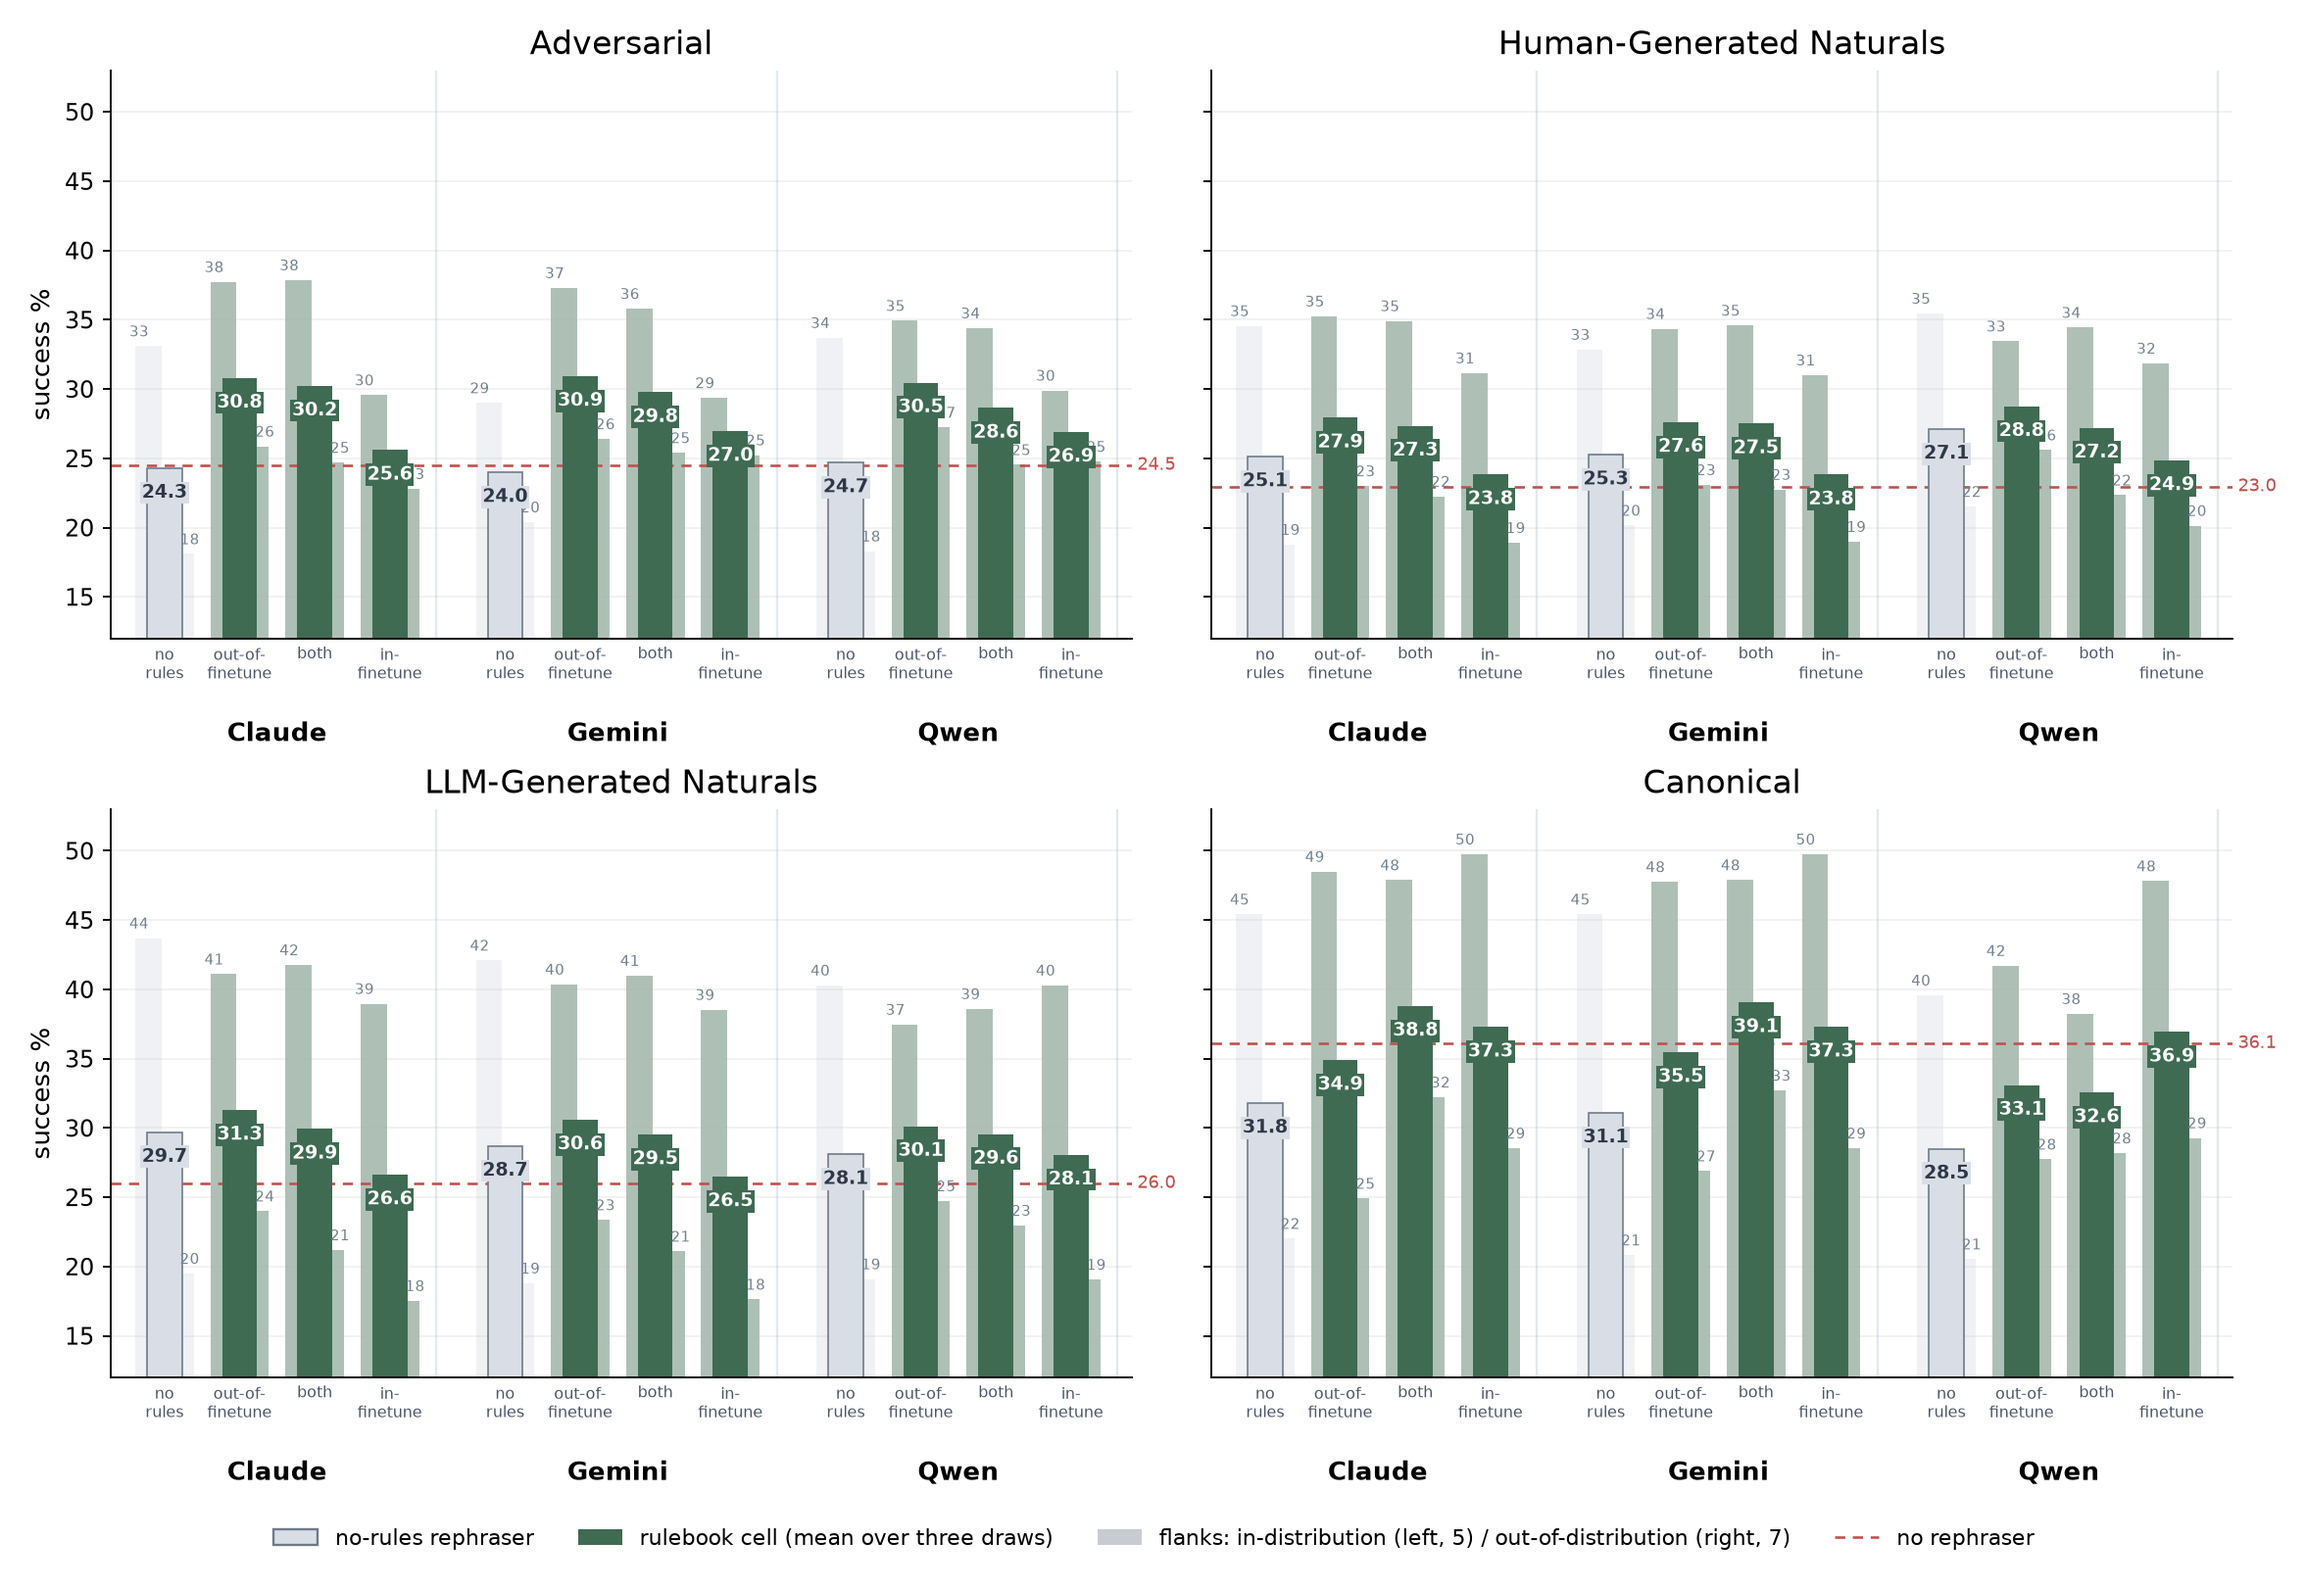
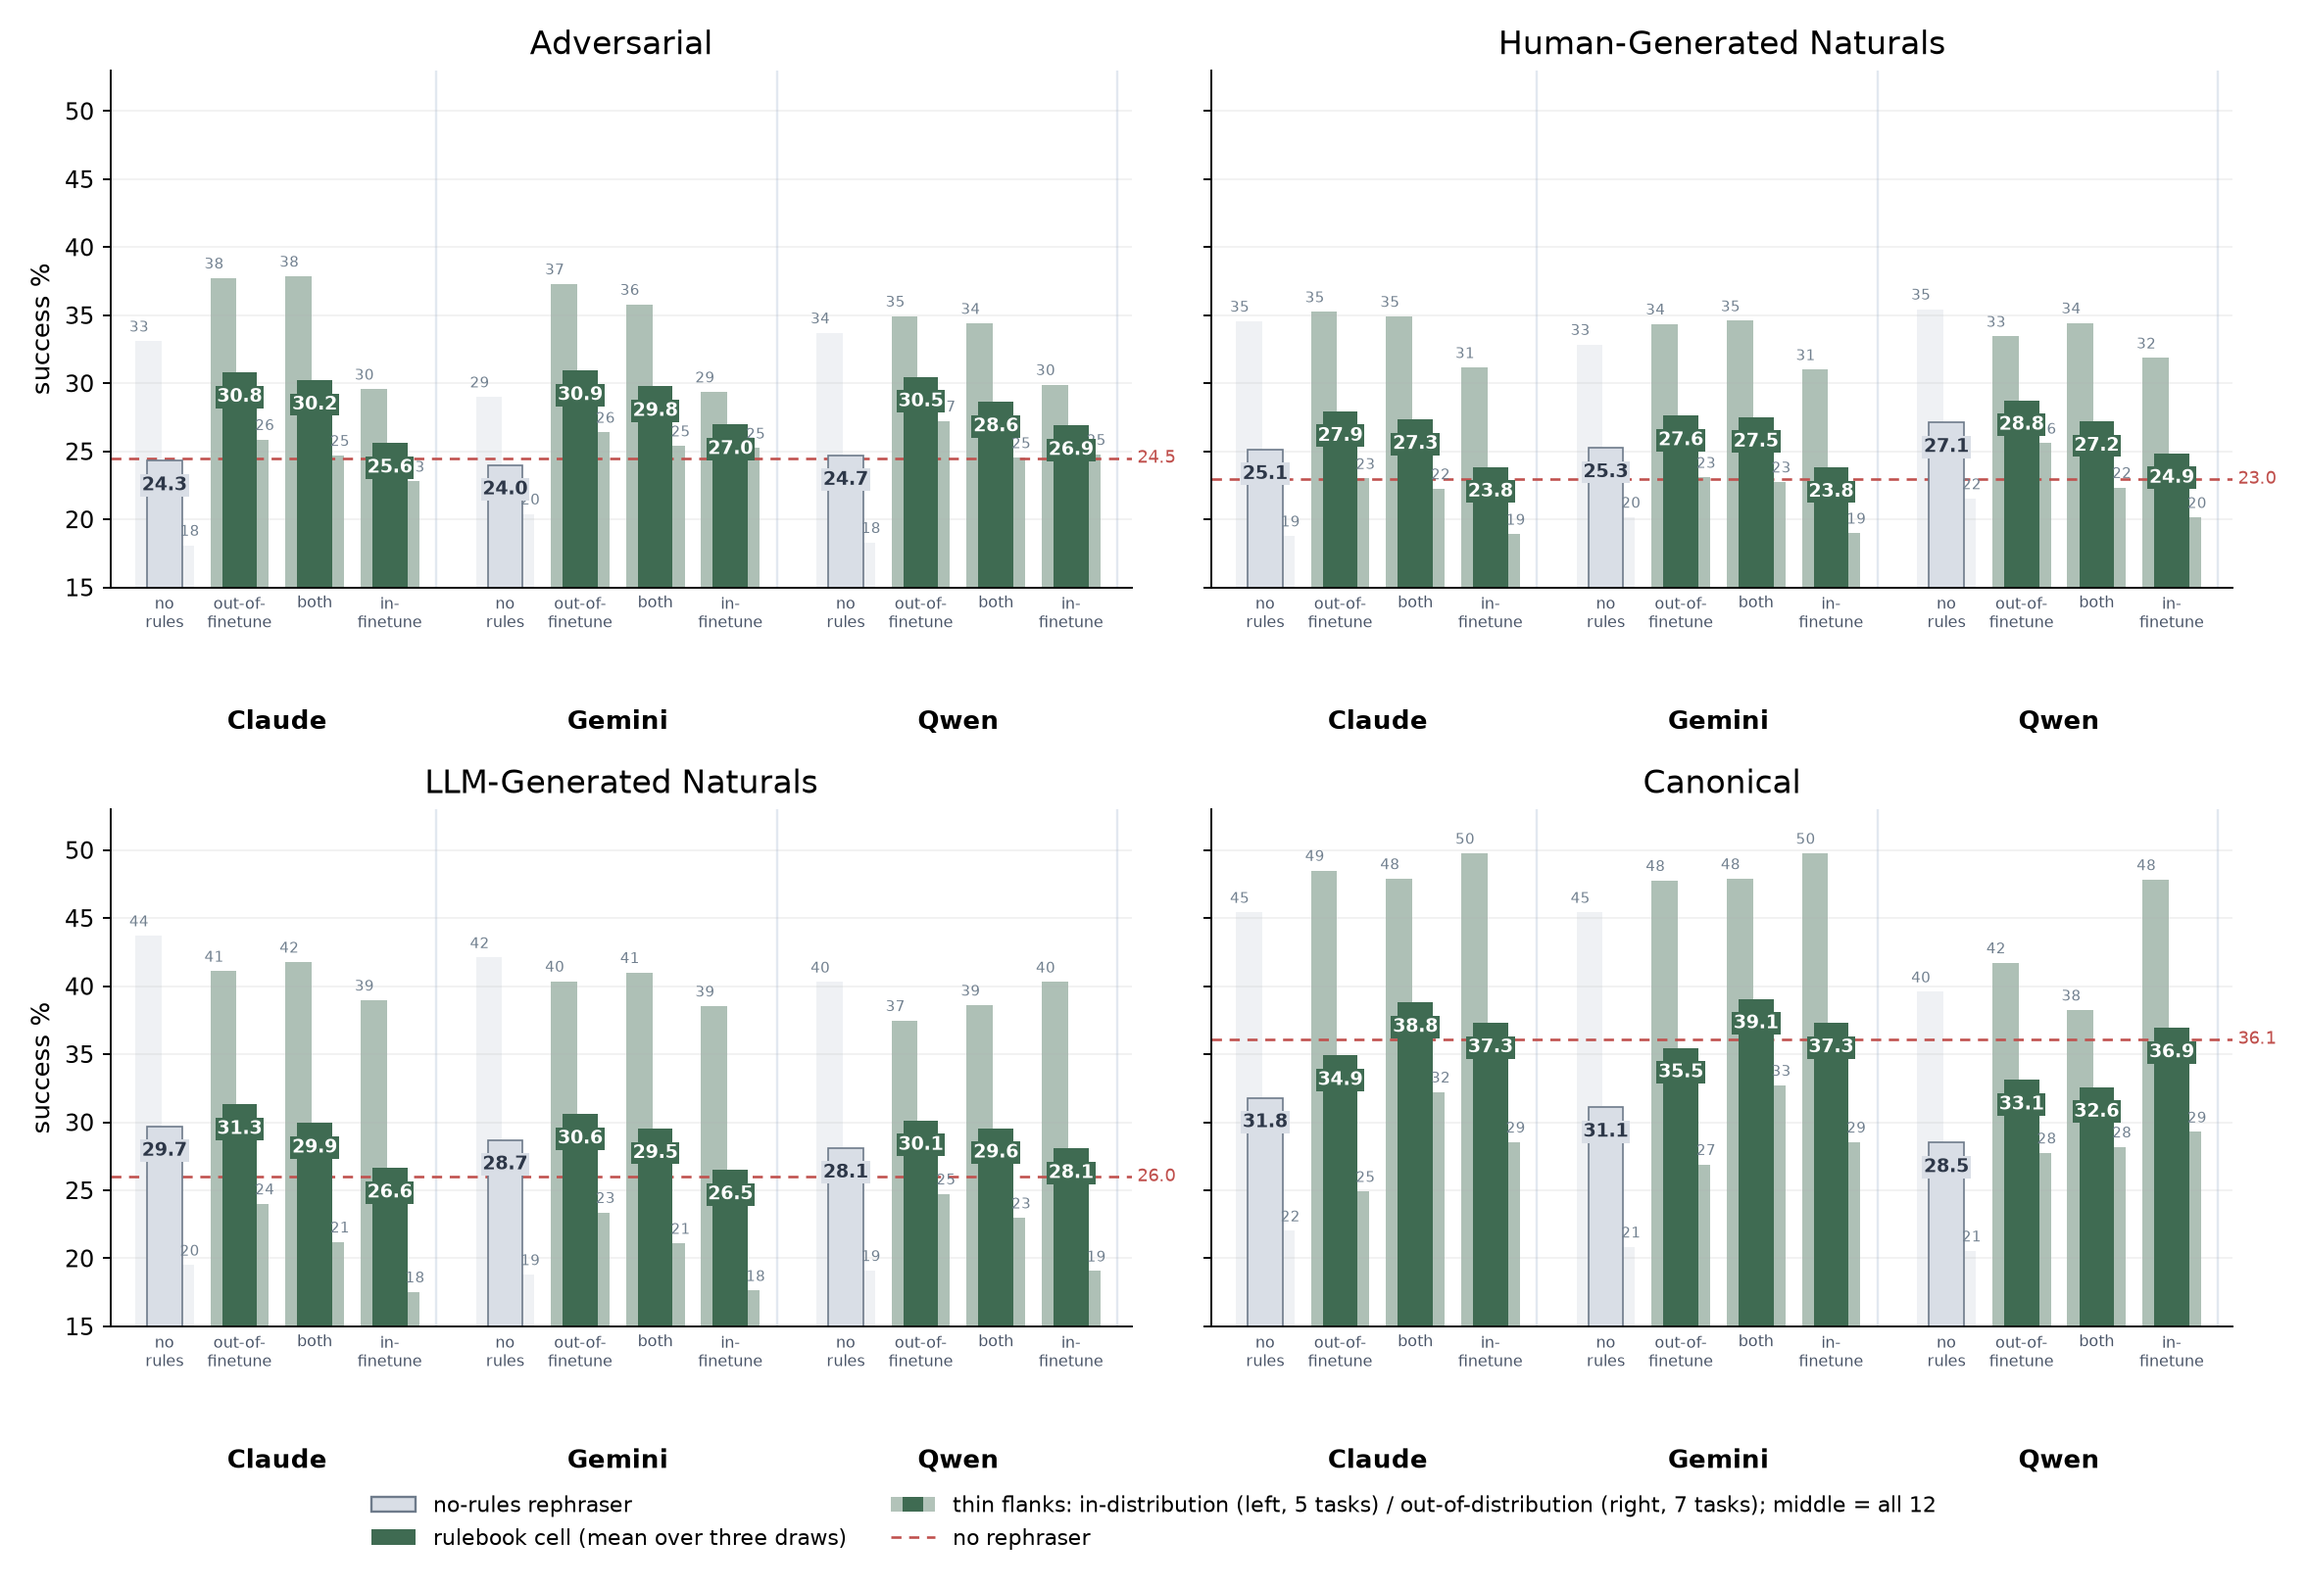
Dashboard v2 + LIBERO three-draw update

diff --git a/paper/main.tex b/paper/main.tex
@@ -487,7 +487,7 @@ The out-of-finetune rulebook is consistently the best type; the one exception is
 \subsection{Replication on $\pi_{0.5}$ + LIBERO}
 \label{sec:libero-repl}
 
-We repeated the pipeline on $\pi_{0.5}$: a preregistered sealed set of 20 tasks (10 in-finetune, 10 out-of-finetune), 10 VLM-generated natural rephrasings per task, evidence from the non-sealed single-edit pairs only, and the Gemini applier ($n = 200$ bases $\times$ 50 layouts per arm). Two independently distilled books lift in-finetune success from 93.6\% to 97.8\% on average ($p \approx 0.005$) and leave out-of-finetune unchanged ($p > 0.6$); the no-rules rephraser gains nothing in-finetune but 1.6 points out-of-finetune ($p = 0.006$). The books' gains are the repairs the evidence licenses: hot plate, hotplate, or burner $\to$ stove ($+43$ to $+48$\,pp on the eight or nine phrases that used them), dish $\to$ plate ($+37$ in the draw that rewrote it), and, smaller but broad, grab or lift $\to$ pick up ($+2.2$ and $+2.6$ over 14--16 phrases) and onto $\to$ on, into $\to$ in (${\sim}+2$ over ${\sim}50$ phrases). A distillation prompt that required each rule to hold across all tasks produced a book of prohibitions that changed little and gained nothing; asking for rules that help on average produced the books above.
+We repeated the pipeline on $\pi_{0.5}$: a preregistered sealed set of 20 tasks (10 in-finetune, 10 out-of-finetune), 10 VLM-generated natural rephrasings per task, evidence from the non-sealed single-edit pairs only, and the Gemini applier ($n = 200$ bases $\times$ 50 layouts per arm). Three independently distilled books lift in-finetune success from 93.6\% to 97.8\% on average ($p \le 0.005$) and leave out-of-finetune unchanged ($p > 0.4$); the no-rules rephraser gains nothing in-finetune but 1.6 points out-of-finetune ($p = 0.006$). The books' gains are the repairs the evidence licenses: hot plate, hotplate, or burner $\to$ stove ($+43$ to $+48$\,pp on the eight or nine phrases that used them), dish $\to$ plate ($+37$ in the draws that rewrote it), and, smaller but broad, grab or lift $\to$ pick up ($+2.2$ and $+2.6$ over 14--16 phrases) and onto $\to$ on, into $\to$ in (${\sim}+2$ over ${\sim}50$ phrases). A distillation prompt that required each rule to hold across all tasks produced a book of prohibitions that changed little and gained nothing; asking for rules that help on average produced the books above (two distilled by Claude Fable 5.1, one by Claude Opus 5).
 
 \section{Comparison with Test-Time Verification}
 \label{sec:cover}

diff --git a/scripts/make_rules_dashboard_compact.py b/scripts/make_rules_dashboard_compact.py
@@ -109,7 +109,7 @@ for ax, (cond, cname) in zip(axes, CONDS):
                 clip_on=False)
     ax.tick_params(axis="x", length=0)
     ax.set_xlim(-0.62, x - 0.62)
-    ax.set_ylim(12, 53)
+    ax.set_ylim(15, 53)
     ax.grid(axis="y", alpha=0.16)
     ax.set_title(cname, fontsize=14, pad=7)
     ax.spines[["top", "right"]].set_visible(False)
@@ -117,16 +117,32 @@ for ax, (cond, cname) in zip(axes, CONDS):
 for _ax in (axes[0], axes[2]):
     _ax.set_ylabel("success %", fontsize=11)
 
+from matplotlib.legend_handler import HandlerBase
+
+
+class FlankHandler(HandlerBase):
+    """legend swatch that pictures a flanked bar: [pale | solid | pale]"""
+    def create_artists(self, legend, orig, xd, yd, width, height, fs, trans):
+        arts = []
+        for x0, x1, a in ((0, .27, .40), (.27, .73, 1.0), (.73, 1.0, .40)):
+            r = plt.Rectangle((xd + x0 * width, yd), (x1 - x0) * width,
+                              height, fc=C_RULES, alpha=a, ec="none")
+            r.set_transform(trans)
+            arts.append(r)
+        return arts
+
+
+flank_key = plt.Rectangle((0, 0), 1, 1)
 handles = [plt.Rectangle((0, 0), 1, 1, fc=C_BASE, ec=EDGE),
            plt.Rectangle((0, 0), 1, 1, fc=C_RULES, ec="none"),
-           plt.Rectangle((0, 0), 1, 1, fc="#7A8698", alpha=0.42),
+           flank_key,
            plt.Line2D([0], [0], color=RED, lw=1.1, ls=(0, (4, 3)))]
 fig.legend(handles, ["no-rules rephraser",
                      "rulebook cell (mean over three draws)",
-                     "flanks: in-distribution (left, 5) / out-of-distribution (right, 7)",
+                     "thin flanks: in-distribution (left, 5 tasks) / out-of-distribution (right, 7 tasks); middle = all 12",
                      "no rephraser"],
-           fontsize=9.5, ncol=4, loc="lower center", bbox_to_anchor=(0.5, 0.0),
-           frameon=False)
+           fontsize=9.5, ncol=2, loc="lower center", bbox_to_anchor=(0.5, 0.0),
+           frameon=False, handler_map={flank_key: FlankHandler()})
 fig.tight_layout(rect=(0, 0.04, 1, 1.0))
 out = R / "results/charts/rules_dashboard_compact.png"
 fig.savefig(out, dpi=170, bbox_inches="tight", pad_inches=0.18)
